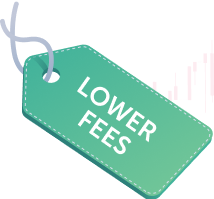
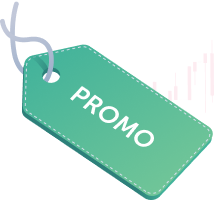
update valentine

diff --git a/src/config/urls.js b/src/config/urls.js
@@ -111,6 +111,8 @@ export const urls = {
       "https://www.ledger.com/academy?utm_source=ledger_live_desktop&utm_medium=self_referral&utm_content=banner_carousel",
     ongoingScams:
       "https://www.ledger.com/ongoing-phishing-campaigns?utm_source=ledger_live_desktop&utm_medium=self_referral&utm_content=banner_carousel",
+    valentine:
+      "https://shop.ledger.com/pages/valentines-day-special-offers&utm_medium=self_referral&utm_content=banner_carousel",
   },
   helpModal: {
     gettingStarted:
